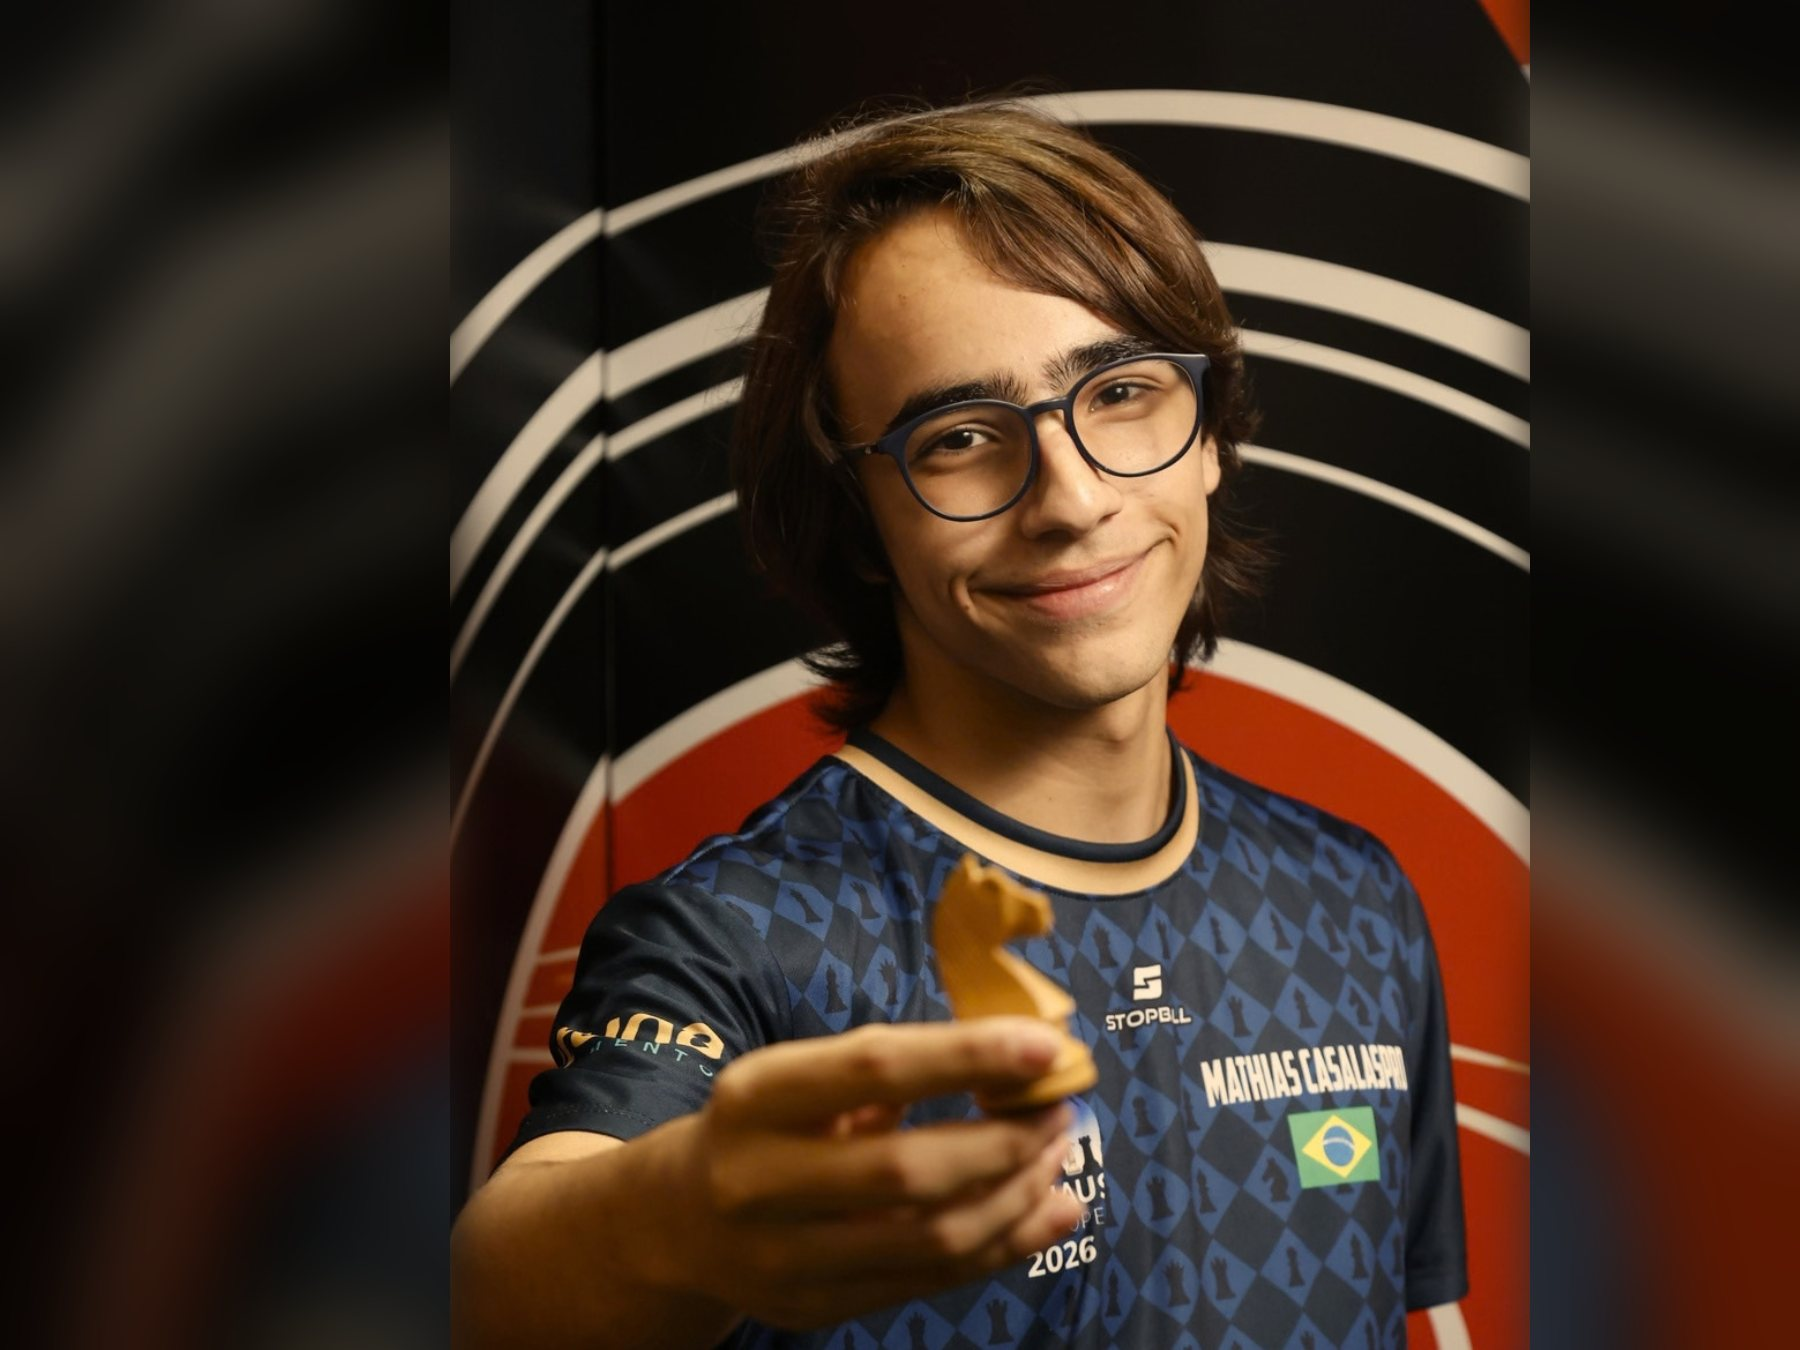
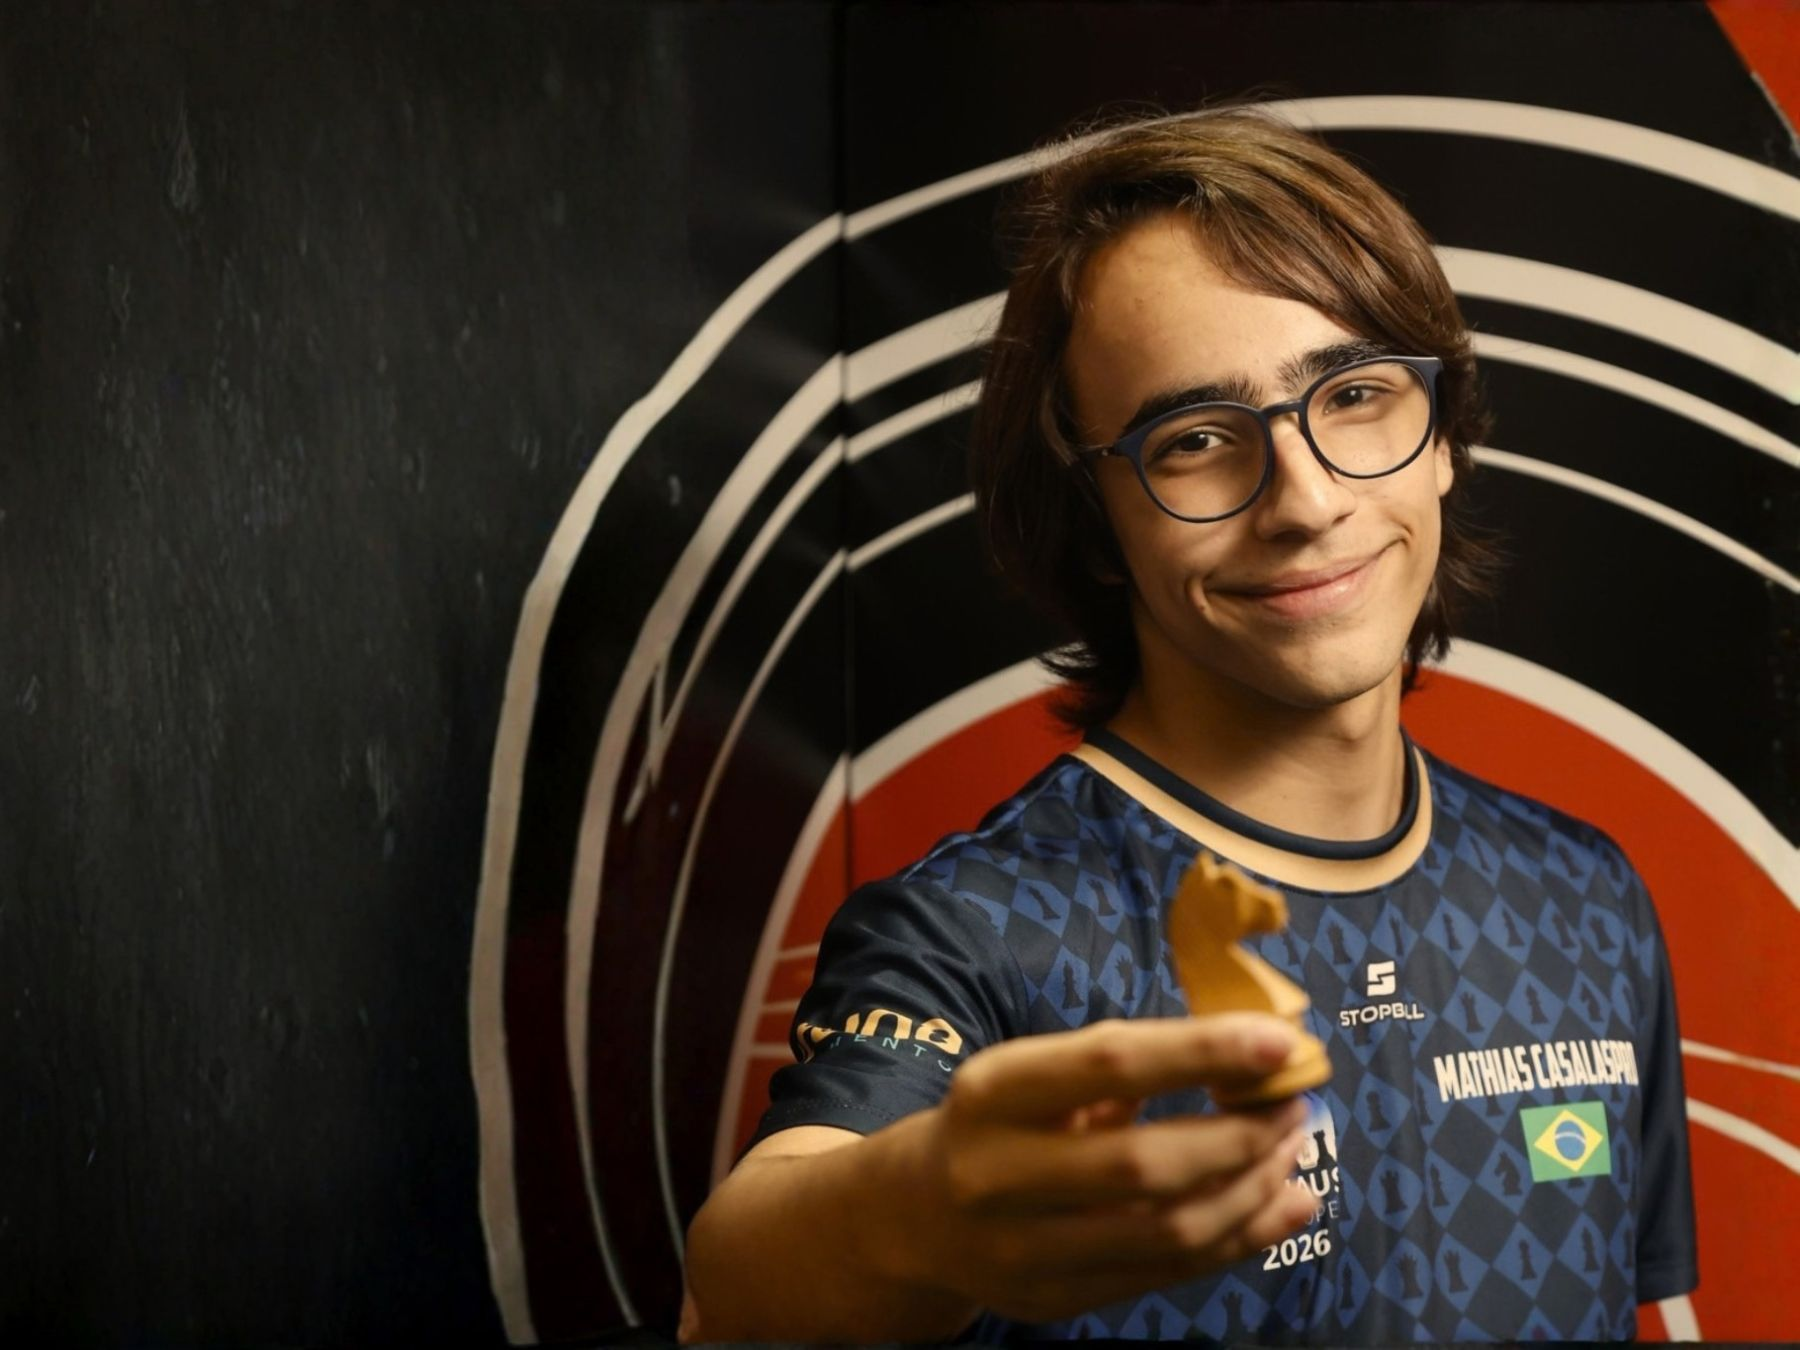
Atualiza o site

diff --git a/index.html b/index.html
@@ -598,28 +598,62 @@ p{ margin:0 0 1em; }
   font-size:clamp(1.15rem,2vw,1.5rem); line-height:1.25; color:var(--grafite); margin-bottom:8px;
 }
 
-.loja{ border-top:1px solid var(--linha-cla); padding-top:clamp(38px,4.5vw,54px); }
-.loja__grid{ display:grid; grid-template-columns:repeat(auto-fit,minmax(230px,1fr)); gap:16px; margin-top:26px; }
-@media (max-width:660px){ .loja__grid{ grid-template-columns:1fr 1fr; gap:10px; } }
-.prod{
-  display:block; position:relative; overflow:hidden; text-decoration:none;
-  border:1px solid var(--linha-cla); border-radius:var(--raio); background:var(--tabuleiro);
-  transition:border-color .2s ease, transform .2s ease, box-shadow .2s ease;
+/* ---- micro contribuição: texto à esquerda, cartões à direita ---- */
+.micro{ display:grid; grid-template-columns:minmax(0,.92fr) minmax(0,1.08fr); gap:clamp(30px,4.5vw,72px); align-items:start; margin-top:clamp(28px,3.6vw,48px); }
+.micro__rot{
+  font-family:var(--mono); font-size:.68rem; letter-spacing:.18em; text-transform:uppercase;
+  color:var(--ouro-esc); font-weight:700; margin:0 0 14px;
 }
-.prod:hover{ border-color:var(--ouro); transform:translateY(-3px); box-shadow:0 16px 36px -20px rgba(30,42,52,.55); }
-.prod img{ display:block; width:100%; aspect-ratio:1/1; object-fit:cover; }
-.prod__vazio{
-  display:grid; place-items:center; aspect-ratio:1/1;
-  background:url("assets/padrao-xadrez.png") repeat center/120px 120px, var(--tabuleiro);
+.micro__lede{ margin-bottom:16px; }
+.micro__lede b{ margin-bottom:0; }
+.micro__conta{ font-size:1.02rem; line-height:1.65; color:var(--grafite2); margin:0 0 24px; max-width:48ch; }
+.micro__conta b{ color:var(--grafite); font-weight:700; }
+.micro__lista{ list-style:none; margin:0; padding:0; display:grid; gap:11px; }
+.micro__lista li{ position:relative; padding-left:24px; font-size:.95rem; line-height:1.45; color:var(--grafite); }
+.micro__lista li::before{
+  content:""; position:absolute; left:2px; top:.48em; width:7px; height:7px;
+  background:var(--ouro); transform:rotate(45deg);
 }
-.prod__vazio::after{ content:"\265F"; font-size:3.2rem; color:var(--ouro); opacity:.5; }
-.prod > svg{
-  position:absolute; top:12px; right:12px; width:15px; height:15px; color:var(--grafite);
-  background:rgba(255,255,255,.94); border-radius:2px; padding:5px; box-sizing:content-box;
-  opacity:0; transition:opacity .2s ease;
+
+.micro .apoios{ grid-template-columns:repeat(3,minmax(0,1fr)); gap:12px; margin-bottom:0; }
+.micro .apoio{ padding:20px 18px 16px; }
+.micro .apoio__v{ font-size:clamp(1.55rem,2.1vw,1.95rem); }
+.micro .apoio--livre .apoio__v{ font-size:clamp(1.15rem,1.5vw,1.4rem); }
+
+.apoio--micro{
+  grid-column:1/-1; border:2px solid var(--ouro); padding:24px 26px 22px !important; gap:8px;
+  box-shadow:0 18px 40px -26px rgba(138,106,34,.55);
 }
-.prod:hover > svg{ opacity:1; }
-.prod svg{ width:15px; height:15px; flex-shrink:0; color:var(--ouro-esc); }
+.apoio--micro .apoio__v{ font-size:clamp(2.6rem,4.2vw,3.5rem) !important; }
+.apoio__tag{
+  align-self:flex-start; font-family:var(--mono); font-size:.62rem; letter-spacing:.14em;
+  text-transform:uppercase; font-weight:700; color:var(--noite); background:var(--ouro);
+  padding:5px 9px; border-radius:2px; margin-bottom:6px;
+}
+.apoio__sem{ font-size:.95rem; color:var(--grafite2); }
+.apoio--micro{
+  display:grid; grid-template-columns:1fr auto; grid-template-areas:"tag pe" "v pe" "sem pe";
+  align-items:center; column-gap:22px; row-gap:6px;
+}
+.apoio--micro .apoio__tag{ grid-area:tag; justify-self:start; }
+.apoio--micro .apoio__v{ grid-area:v; }
+.apoio--micro .apoio__sem{ grid-area:sem; }
+.apoio--micro .apoio__pe{
+  grid-area:pe; margin:0; padding:15px 22px; border-radius:3px;
+  background:var(--ouro); color:var(--noite); font-size:.74rem; letter-spacing:.12em;
+  transition:background-color .2s ease;
+}
+.apoio--micro:hover .apoio__pe{ background:var(--ouro-claro); }
+
+@media (max-width:860px){
+  .micro{ grid-template-columns:1fr; }
+}
+@media (max-width:560px){
+  .micro .apoios{ grid-template-columns:1fr 1fr; gap:10px; }
+  .micro .apoio--livre{ grid-column:1/-1; }
+  .apoio--micro{ padding:20px 20px 18px !important; grid-template-columns:1fr; grid-template-areas:"tag" "v" "sem" "pe"; }
+  .apoio--micro .apoio__pe{ justify-self:stretch; text-align:center; margin-top:12px; }
+}
 
 /* ============ PATROCÍNIO ============ */
 .patro{ position:relative; overflow:hidden; padding-bottom:clamp(26px,2.8vw,44px); }
@@ -1349,7 +1383,7 @@ p{ margin:0 0 1em; }
           <div class="calc__gente" id="calcGente" aria-hidden="true"></div>
         </div>
 
-        <a class="btn btn--ouro" href="#apoiar" data-t="meta.btn">Contribuir com a temporada</a>
+        <a class="btn btn--ouro" href="#apoiar" id="metaBtn">Contribuir a partir de R$ 20/mês</a>
         <p class="meta__prova" id="prova">— pessoas já apoiaram</p>
         <p class="calc__nota" data-t="calc.nota">Esse valor não cobre todas as despesas de viagens e torneios, mas é uma ajuda muito significativa.</p>
       </div>
@@ -1362,47 +1396,41 @@ p{ margin:0 0 1em; }
   <div class="env">
     <p class="casa rev"><span data-t="casa.e5">Como apoiar</span></p>
     <h2 class="rev" style="max-width:20ch;margin-bottom:18px" data-t="apoiar.h2">Seu apoio faz a diferença</h2>
-    <p class="lede rev recado" data-t="apoiar.lede"><b>Escolha um valor que cabe no seu orçamento mensal.</b>
-    Nenhuma contribuição é pequena: somadas, elas podem tornar esse sonho realidade.</p>
+    <div class="micro rev">
+      <div class="micro__txt">
+        <p class="micro__rot" data-t="apoiar.micro.rot">Micro contribuição</p>
+        <p class="recado micro__lede" data-t="apoiar.lede"><b>Escolha um valor que cabe no seu orçamento mensal.</b></p>
+        <!-- Os valores desta frase vêm do menor apoio em dados/conteudo.json > apoios. -->
+        <p class="micro__conta" id="microConta"><b>R$ 20 por mês</b> é menos de <b>R$ 5 por semana</b>.
+        Sozinho, parece pouco. Somado ao de outras pessoas, paga treino, viagens e inscrições — e dá
+        a previsibilidade que permite planejar a temporada.</p>
+        <ul class="micro__lista">
+          <li data-t="apoiar.micro.l1">Mensal e automático, pelo Mercado Pago</li>
+          <li data-t="apoiar.micro.l2">Sem fidelidade: para parar, é só avisar</li>
+          <li data-t="apoiar.micro.l3">Qualquer valor conta</li>
+        </ul>
+      </div>
 
-    <!-- Os links abaixo são os planos de assinatura já existentes no Mercado Pago.
-         CONFERIR: qual plan_id corresponde a qual valor. -->
-    <div class="apoios rev" id="apoios">
-      <a class="apoio" href="https://www.mercadopago.com.br/subscriptions/checkout?preapproval_plan_id=8dfc1abd8d404f57a0e9eddc3873a9fc" target="_blank" rel="noopener">
-        <span class="apoio__v">R$ 20<small>/mês</small></span>
-        <span class="apoio__pe">Apoiar →</span>
-      </a>
-      <a class="apoio" href="https://www.mercadopago.com.br/subscriptions/checkout?preapproval_plan_id=27036d019c8a4d9c88cd63afda62646a" target="_blank" rel="noopener">
-        <span class="apoio__v">R$ 50<small>/mês</small></span>
-        <span class="apoio__pe">Apoiar →</span>
-      </a>
-      <a class="apoio" href="https://www.mercadopago.com.br/subscriptions/checkout?preapproval_plan_id=426a4917b0a242e0ab47c0781d41202c" target="_blank" rel="noopener">
-        <span class="apoio__v">R$ 100<small>/mês</small></span>
-        <span class="apoio__pe">Apoiar →</span>
-      </a>
-      <a class="apoio apoio--livre" href="https://www.mercadopago.com.br/subscriptions/checkout?preapproval_plan_id=77b3e1c46a744a0384aa9756f8c214ba" target="_blank" rel="noopener">
-        <span class="apoio__v">Outro valor</span>
-        <span class="apoio__pe">Escolher →</span>
-      </a>
-    </div>
-
-    <div class="loja rev">
-      <h3 data-t="loja.h3">Apoiar levando algo em troca</h3>
-      <p class="recado" data-t="loja.p" style="margin-bottom:0">Aulas, produtos e serviços que financiam diretamente a preparação. Você ganha, ele avança.</p>
-      <!-- Produtos vêm de dados/conteudo.json > loja. Para cada um, basta pôr a imagem
-           em assets/loja/ e apontar o campo "imagem". Sem imagem, o card mostra o padrão. -->
-      <div class="loja__grid" id="loja">
-        <a class="prod" href="https://form.respondi.app/oemyel9l" target="_blank" rel="noopener" aria-label="Partidas de treinamento — 1 hora de jogos online no Lichess">
-          <img src="assets/loja/partidas-de-treinamento.jpg" alt="Partidas de treinamento — 1 hora de jogos online no Lichess" loading="lazy"><svg viewBox="0 0 24 24" fill="none" stroke="currentColor" stroke-width="2.2" aria-hidden="true"><path d="M7 17 17 7M9 7h8v8"/></svg>
+      <!-- Planos de assinatura do Mercado Pago. Os cartões vêm de dados/conteudo.json > apoios;
+           o menor valor fixo ganha o destaque de "Comece por aqui". -->
+      <div class="apoios" id="apoios">
+        <a class="apoio apoio--micro" href="https://www.mercadopago.com.br/subscriptions/checkout?preapproval_plan_id=8dfc1abd8d404f57a0e9eddc3873a9fc" target="_blank" rel="noopener">
+          <span class="apoio__tag">Comece por aqui</span>
+          <span class="apoio__v">R$ 20<small>/mês</small></span>
+          <span class="apoio__sem">menos de R$ 5 por semana</span>
+          <span class="apoio__pe">Apoiar →</span>
         </a>
-        <a class="prod" href="https://form.respondi.app/mg3mwzPj" target="_blank" rel="noopener" aria-label="Terapia e Orientação Educacional com Maurizio Casalaspro">
-          <img src="assets/loja/terapia-orientacao-educacional.jpg" alt="Terapia e Orientação Educacional com Maurizio Casalaspro" loading="lazy"><svg viewBox="0 0 24 24" fill="none" stroke="currentColor" stroke-width="2.2" aria-hidden="true"><path d="M7 17 17 7M9 7h8v8"/></svg>
+        <a class="apoio" href="https://www.mercadopago.com.br/subscriptions/checkout?preapproval_plan_id=27036d019c8a4d9c88cd63afda62646a" target="_blank" rel="noopener">
+          <span class="apoio__v">R$ 50<small>/mês</small></span>
+          <span class="apoio__pe">Apoiar →</span>
         </a>
-        <a class="prod" href="https://produto.mercadolivre.com.br/MLB-1837673983-porta-copos-de-xadrez-_JM" target="_blank" rel="noopener" aria-label="Apoio de copos artesanal em borracha, no Mercado Livre">
-          <img src="assets/loja/apoio-de-copos.jpg" alt="Apoio de copos artesanal em borracha, no Mercado Livre" loading="lazy"><svg viewBox="0 0 24 24" fill="none" stroke="currentColor" stroke-width="2.2" aria-hidden="true"><path d="M7 17 17 7M9 7h8v8"/></svg>
+        <a class="apoio" href="https://www.mercadopago.com.br/subscriptions/checkout?preapproval_plan_id=426a4917b0a242e0ab47c0781d41202c" target="_blank" rel="noopener">
+          <span class="apoio__v">R$ 100<small>/mês</small></span>
+          <span class="apoio__pe">Apoiar →</span>
         </a>
-        <a class="prod" href="https://amzn.to/46Ae2RE" target="_blank" rel="noopener" aria-label="Jogo dos Hábitos, de Maurizio Casalaspro, na Amazon">
-          <img src="assets/loja/jogo-dos-habitos.jpg" alt="Jogo dos Hábitos, de Maurizio Casalaspro, na Amazon" loading="lazy"><svg viewBox="0 0 24 24" fill="none" stroke="currentColor" stroke-width="2.2" aria-hidden="true"><path d="M7 17 17 7M9 7h8v8"/></svg>
+        <a class="apoio apoio--livre" href="https://www.mercadopago.com.br/subscriptions/checkout?preapproval_plan_id=77b3e1c46a744a0384aa9756f8c214ba" target="_blank" rel="noopener">
+          <span class="apoio__v">Outro valor</span>
+          <span class="apoio__pe">Escolher →</span>
         </a>
       </div>
     </div>
@@ -1583,7 +1611,10 @@ const PADRAO = {
 
   /* Texto de interface. Se a chave faltar no idioma, cai no português. */
   function T(chave, alt){
-    const v = TXT[chave];
+    let v = TXT[chave];
+    /* As chaves "_meta.x" moram aninhadas em _meta no JSON de idioma. Sem isto,
+       elas nunca eram achadas e o inglês e o italiano mostravam o texto em português. */
+    if (v == null && chave.indexOf("_meta.") === 0) v = META[chave.slice(6)];
     return (v == null || v === "") ? (alt == null ? "" : alt) : v;
   }
   /* Campo traduzido de um item dos dados: texto_en, texto_it… senão o original. */
@@ -1708,7 +1739,19 @@ const PADRAO = {
       '<div class="num"><span class="num__v" data-conta="'+Number(n.valor||0)+'">0</span>' +
       '<span class="num__r">'+esc(TR(n,"rotulo"))+'</span></div>').join("");
     $$("[data-conta]", g).forEach(el=> obsConta.observe(el));
-    if (quando) $("#datadoNumeros").textContent = T("_meta.atualizadoEm","Atualizado em") + " " + quando;
+    if (quando) $("#datadoNumeros").textContent = T("_meta.atualizadoEm","Atualizado em") + " " + mesNoIdioma(quando);
+  }
+
+  /* "agosto de 2026" vem escrito à mão no conteudo.json. Em inglês e italiano,
+     o mês é reescrito no idioma da página; se o texto fugir do formato, fica como está. */
+  function mesNoIdioma(txt){
+    if (LANG === "pt") return txt;
+    const MESES = ["janeiro","fevereiro","março","abril","maio","junho","julho",
+                   "agosto","setembro","outubro","novembro","dezembro"];
+    const m = String(txt).trim().toLowerCase().match(/^([a-zç]+)\s+de\s+(\d{4})$/);
+    const i = m ? MESES.indexOf(m[1]) : -1;
+    if (i < 0) return txt;
+    return new Date(+m[2], i, 15).toLocaleDateString(LANG, { month:"long", year:"numeric" });
   }
 
   function montaConquistas(lista, nascimento){
@@ -1746,31 +1789,49 @@ const PADRAO = {
     }).join("");
   }
 
-  function montaLoja(produtos){
-    if (!Array.isArray(produtos) || !produtos.length) return;
-    const seta = '<svg viewBox="0 0 24 24" fill="none" stroke="currentColor" stroke-width="2.2" aria-hidden="true"><path d="M7 17 17 7M9 7h8v8"/></svg>';
-    $("#loja").innerHTML = produtos.map(p=>{
-      /* O título já está impresso na arte do produto: aqui ele vira só o rótulo
-         acessível, para quem usa leitor de tela. */
-      const nome = esc(TR(p,"nome") + (TR(p,"descricao") ? " — " + TR(p,"descricao") : ""));
-      const foto = p.imagem
-        ? '<img src="assets/loja/'+esc(p.imagem)+'" alt="'+nome+'" loading="lazy">'
-        : '<span class="prod__vazio" aria-hidden="true"></span>';
-      return '<a class="prod" href="'+esc(p.url)+'" target="_blank" rel="noopener" aria-label="'+nome+'">'+
-             foto+seta+'</a>';
-    }).join("");
+  /* "R$ 1.000" -> 1000. Devolve NaN se não houver número. */
+  function numeroDe(txt){
+    return parseFloat(String(txt || "").replace(/[^\d,.]/g,"").replace(/\./g,"").replace(",","."));
   }
 
-
+  /* A micro contribuição é o menor valor fixo da lista: ganha o cartão de destaque,
+     e a conta "por semana" sai dele. Mudou o valor no conteudo.json, o texto acompanha. */
   function montaApoios(itens){
     if (!Array.isArray(itens) || !itens.length) return;
-    $("#apoios").innerHTML = itens.map(a=>{
-      const livre = a.livre ? " apoio--livre" : "";
+    const fixos = itens.filter(a=> !a.livre && numeroDe(a.valor) > 0);
+    const micro = fixos.length ? fixos.reduce((m,a)=> numeroDe(a.valor) < numeroDe(m.valor) ? a : m) : null;
+    const ordem = micro ? [micro].concat(itens.filter(a=> a !== micro)) : itens;
+
+    $("#apoios").innerHTML = ordem.map(a=>{
+      const ehMicro = a === micro;
+      const classe = "apoio" + (a.livre ? " apoio--livre" : "") + (ehMicro ? " apoio--micro" : "");
       const valor = a.livre ? esc(TR(a,"valor")) : esc(a.valor) + '<small>'+esc(T("_meta.mes","/mês"))+'</small>';
-      return '<a class="apoio'+livre+'" href="'+esc(a.url)+'" target="_blank" rel="noopener">'+
+      return '<a class="'+classe+'" href="'+esc(a.url)+'" target="_blank" rel="noopener">'+
+             (ehMicro ? '<span class="apoio__tag">'+esc(T("apoiar.micro.tag","Comece por aqui"))+'</span>' : '')+
              '<span class="apoio__v">'+valor+'</span>'+
+             (ehMicro ? '<span class="apoio__sem">'+esc(semanal(a, "apoiar.micro.sem", "menos de {semana} por semana"))+'</span>' : '')+
              '<span class="apoio__pe">'+esc(a.livre ? T("_meta.escolher","Escolher") : T("_meta.apoiar","Apoiar"))+' →</span></a>';
     }).join("");
+    montaMicro(micro);
+  }
+
+  /* Valor mensal convertido em "menos de R$ X por semana" (12 meses ÷ 52 semanas). */
+  function semanal(a, chave, padrao){
+    const v = numeroDe(a.valor), s = v * 12 / 52;
+    const teto = Number.isInteger(s) ? s + 1 : Math.ceil(s);
+    const moeda = String(a.valor).replace(/[\d.,\s]+$/,"").trim() || "R$";
+    return T(chave, padrao).replace("{semana}", moeda + " " + teto).replace("{mes}", a.valor);
+  }
+
+  function montaMicro(micro){
+    if (!micro) return;
+    const conta = $("#microConta");
+    if (conta) conta.innerHTML = semanal(micro, "apoiar.micro.conta",
+      "<b>{mes} por mês</b> é menos de <b>{semana} por semana</b>. Sozinho, parece pouco. " +
+      "Somado ao de outras pessoas, paga treino, viagens e inscrições — e dá a previsibilidade " +
+      "que permite planejar a temporada.");
+    const btn = $("#metaBtn");
+    if (btn) btn.textContent = semanal(micro, "meta.btnMicro", "Contribuir a partir de {mes}/mês");
   }
 
   function montaImprensa(grupos){
@@ -2187,7 +2248,6 @@ const PADRAO = {
     montaImprensa(c.imprensa);
     montaCusteio(c.custeio);
     montaApoios(c.apoios);
-    montaLoja(c.loja);
     montaCaminho(Object.assign({ atualizadoEm: c.atualizadoEm }, c.caminho));
     aplicaContato(c.contato);
   }
